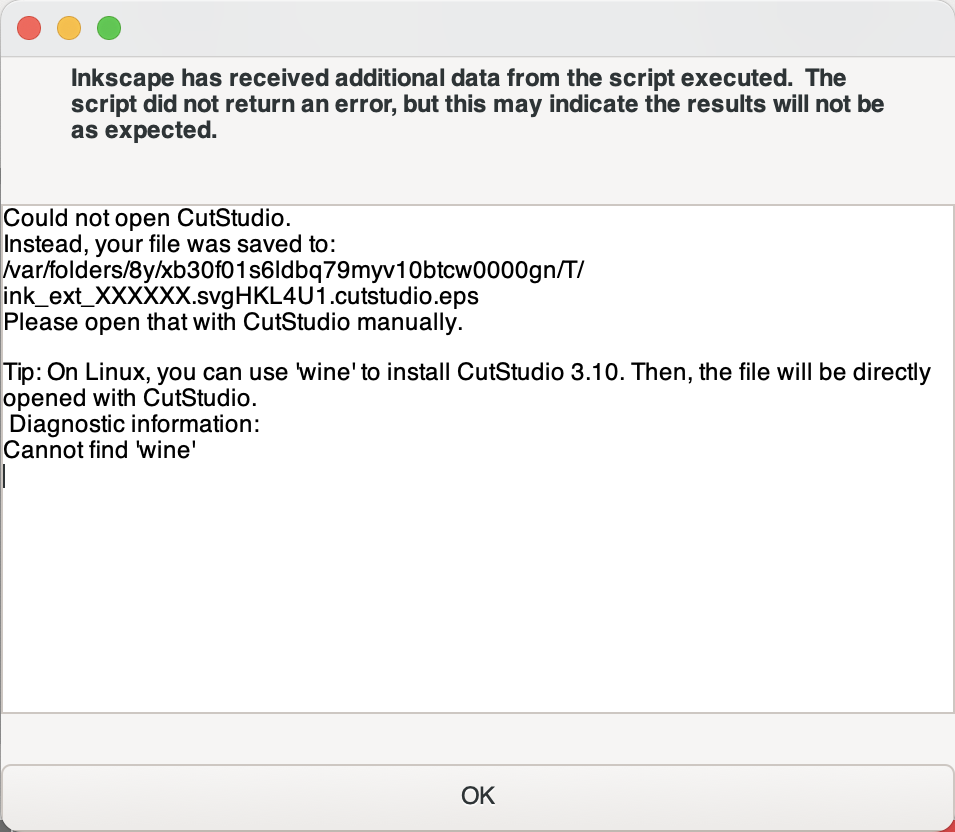
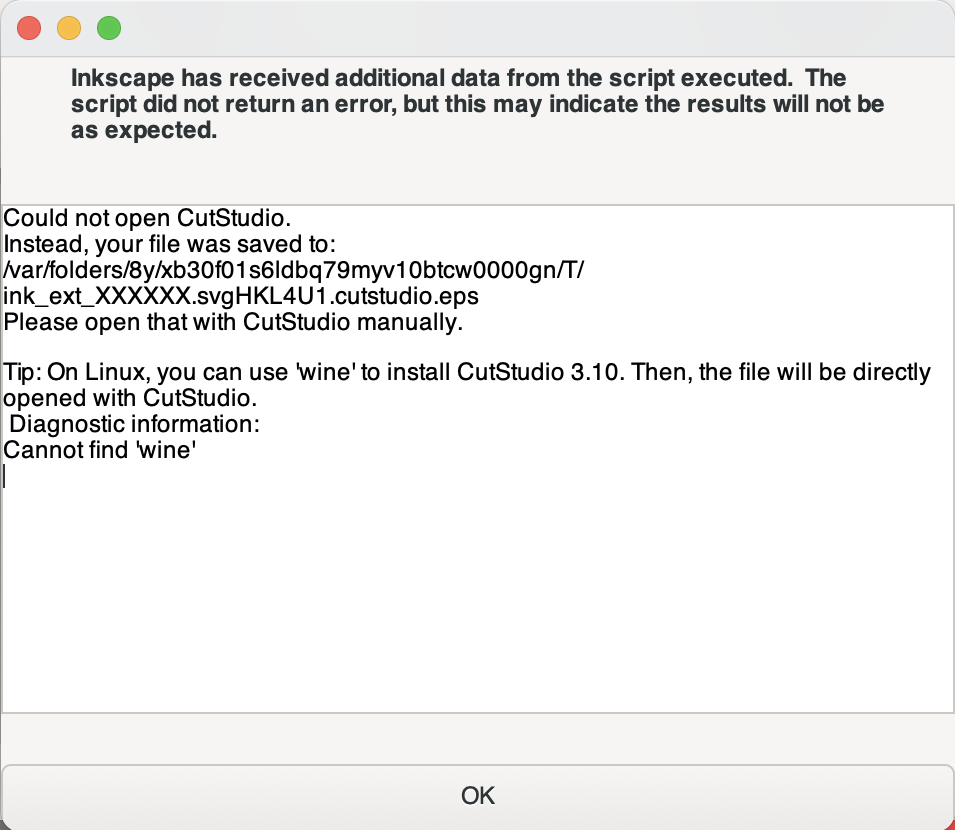
Crop image and display it smaller

diff --git a/README.md b/README.md
@@ -22,7 +22,7 @@
 Follow the steps above. Once the plugin has completed the export, you'll see a dialog box that indicates where the EPS file has been saved. This file can be imported into CutStudio with File -> Import.
 
 <p align="center">
-    <img alt="Dialog box shown when plugin is run and CutStudio is not installed" src="images/no-cutstudio.png"/>
+    <img alt="Dialog box shown when plugin is run and CutStudio is not installed" src="images/no-cutstudio.png" width="600"/>
 </p>
 
 ## Installing
